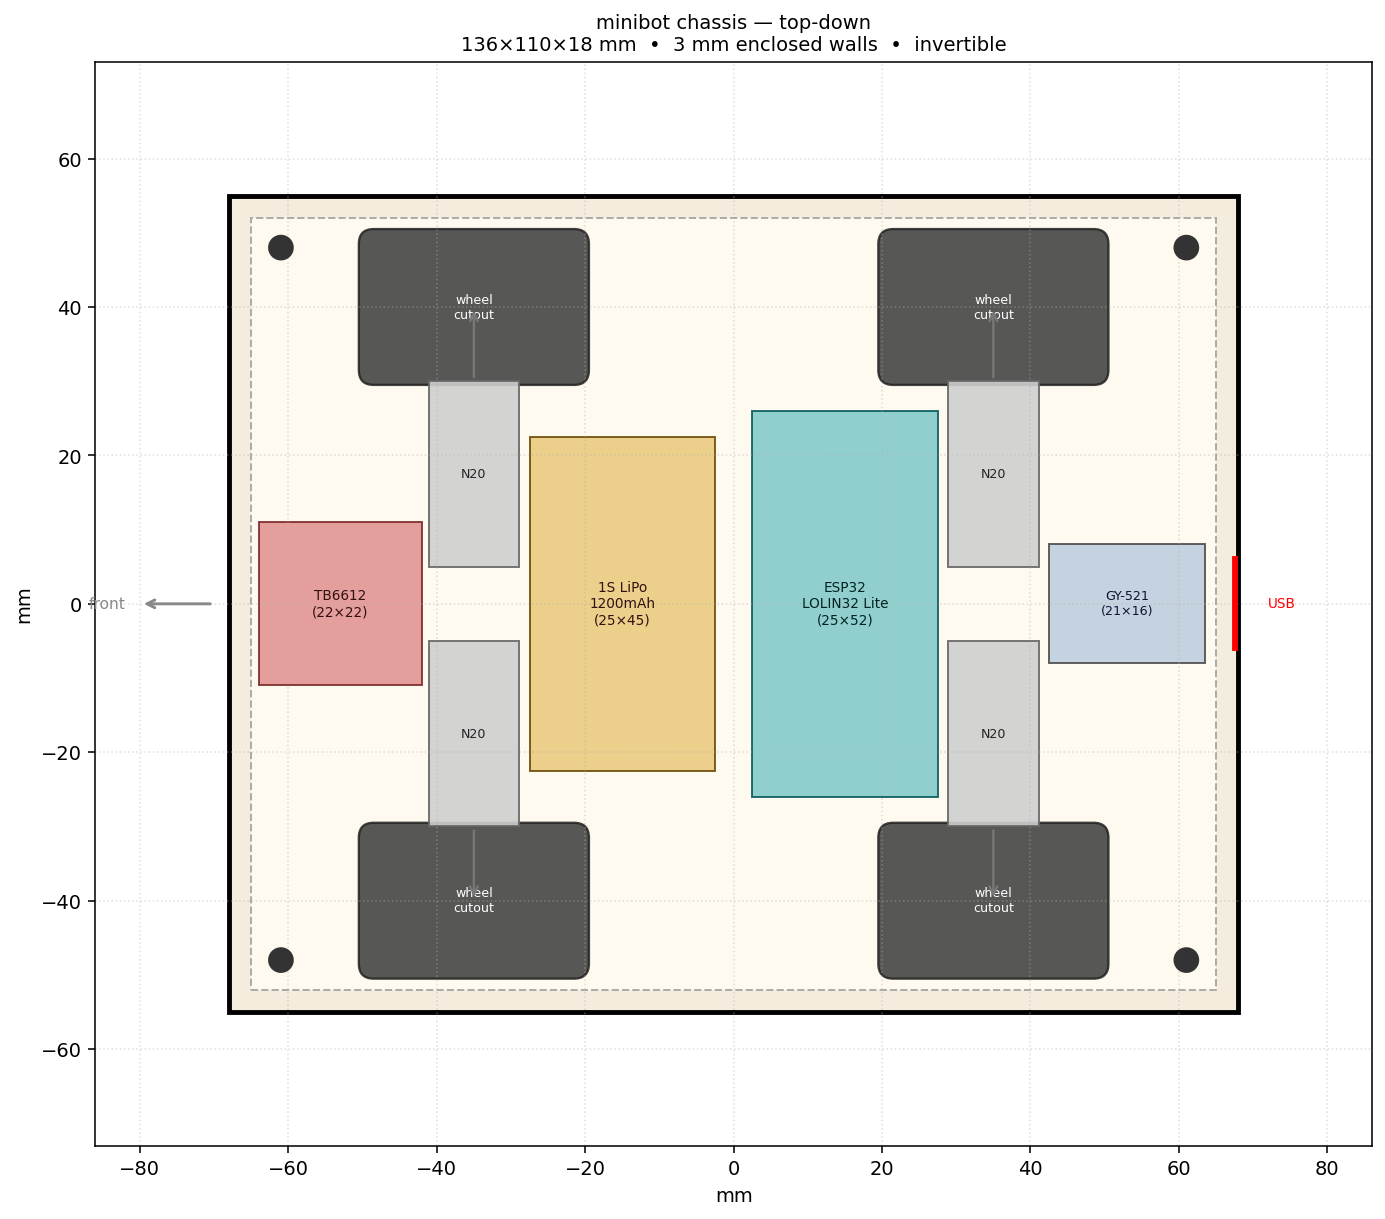
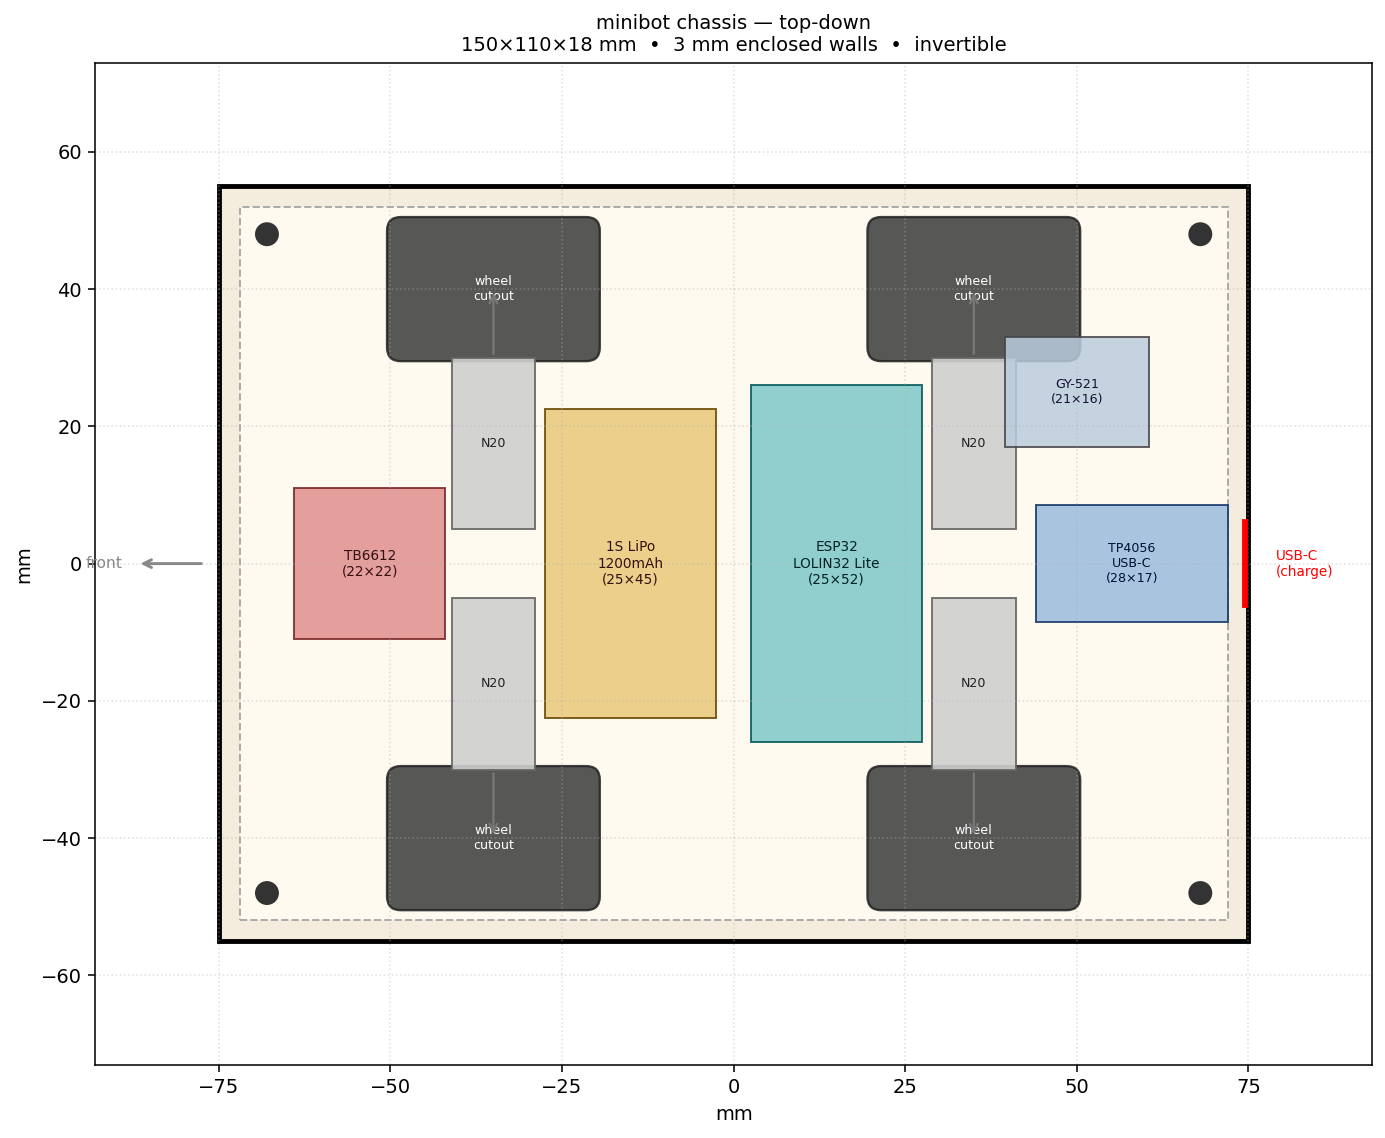
feat(cad): integrate TP4056 USB-C charging board and extend chassis to 150 mm

diff --git a/docs/cad/layout.py b/docs/cad/layout.py
@@ -13,7 +13,7 @@ import matplotlib.pyplot as plt
 OUT = Path(__file__).resolve().parent
 
 # ─── parameters (kept in sync with chassis.scad) ────────────────────
-plate_length = 136
+plate_length = 150
 plate_width = 110
 wall_thick = 3
 
@@ -32,6 +32,7 @@ esp_length, esp_width = 52, 25
 driver_length, driver_width = 22, 22
 battery_length, battery_width = 45, 25
 imu_length, imu_width = 21, 16
+tp4056_length, tp4056_width = 28, 17
 
 motor_positions = [
     (-motor_axle_pitch / 2,  motor_center_y),
@@ -121,20 +122,30 @@ def render() -> None:
     ax.text(bat_x, 0, "1S LiPo\n1200mAh\n(25×45)",
             ha="center", va="center", fontsize=7, color="#311")
 
-    # GY-521 IMU behind the rear motors, before the back wall
-    imu_x = 53
+    # TP4056 USB-C charge board against the back wall
+    tp_x, tp_y = 58, 0
     ax.add_patch(patches.Rectangle(
-        (imu_x - imu_length / 2, -imu_width / 2),
+        (tp_x - tp4056_length / 2, tp_y - tp4056_width / 2),
+        tp4056_length, tp4056_width,
+        linewidth=1, edgecolor="#136", facecolor="#9bd", alpha=0.85,
+    ))
+    ax.text(tp_x, tp_y, f"TP4056\nUSB-C\n({tp4056_length}×{tp4056_width})",
+            ha="center", va="center", fontsize=6.5, color="#013")
+
+    # GY-521 IMU just inboard of TP4056 in the back strip
+    imu_x, imu_y = 50, 25
+    ax.add_patch(patches.Rectangle(
+        (imu_x - imu_length / 2, imu_y - imu_width / 2),
         imu_length, imu_width,
         linewidth=1, edgecolor="#444", facecolor="#bcd", alpha=0.85,
     ))
-    ax.text(imu_x, 0, f"GY-521\n({imu_length}×{imu_width})",
+    ax.text(imu_x, imu_y, f"GY-521\n({imu_length}×{imu_width})",
             ha="center", va="center", fontsize=6.5, color="#113")
 
-    # USB slot in the back wall (+X), centred
+    # USB-C slot in back wall (TP4056 charging)
     ax.plot([plate_length / 2 - 0.5, plate_length / 2 - 0.5],
             [-6, 6], color="red", lw=3)
-    ax.text(plate_length / 2 + 4, 0, "USB", ha="left", va="center", fontsize=7, color="red")
+    ax.text(plate_length / 2 + 4, 0, "USB-C\n(charge)", ha="left", va="center", fontsize=7, color="red")
 
     # Corner mount holes
     for sx in (-1, 1):